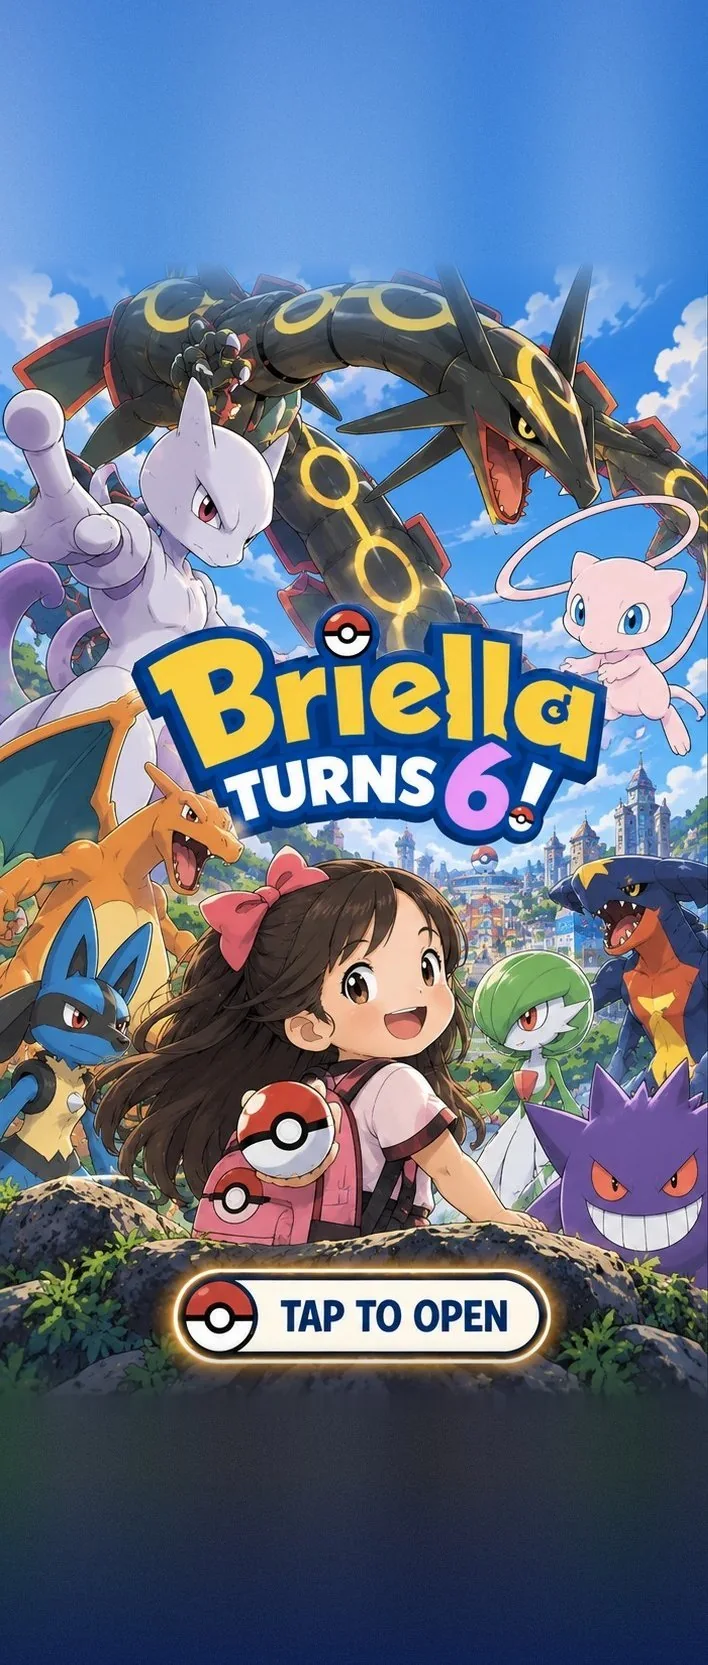
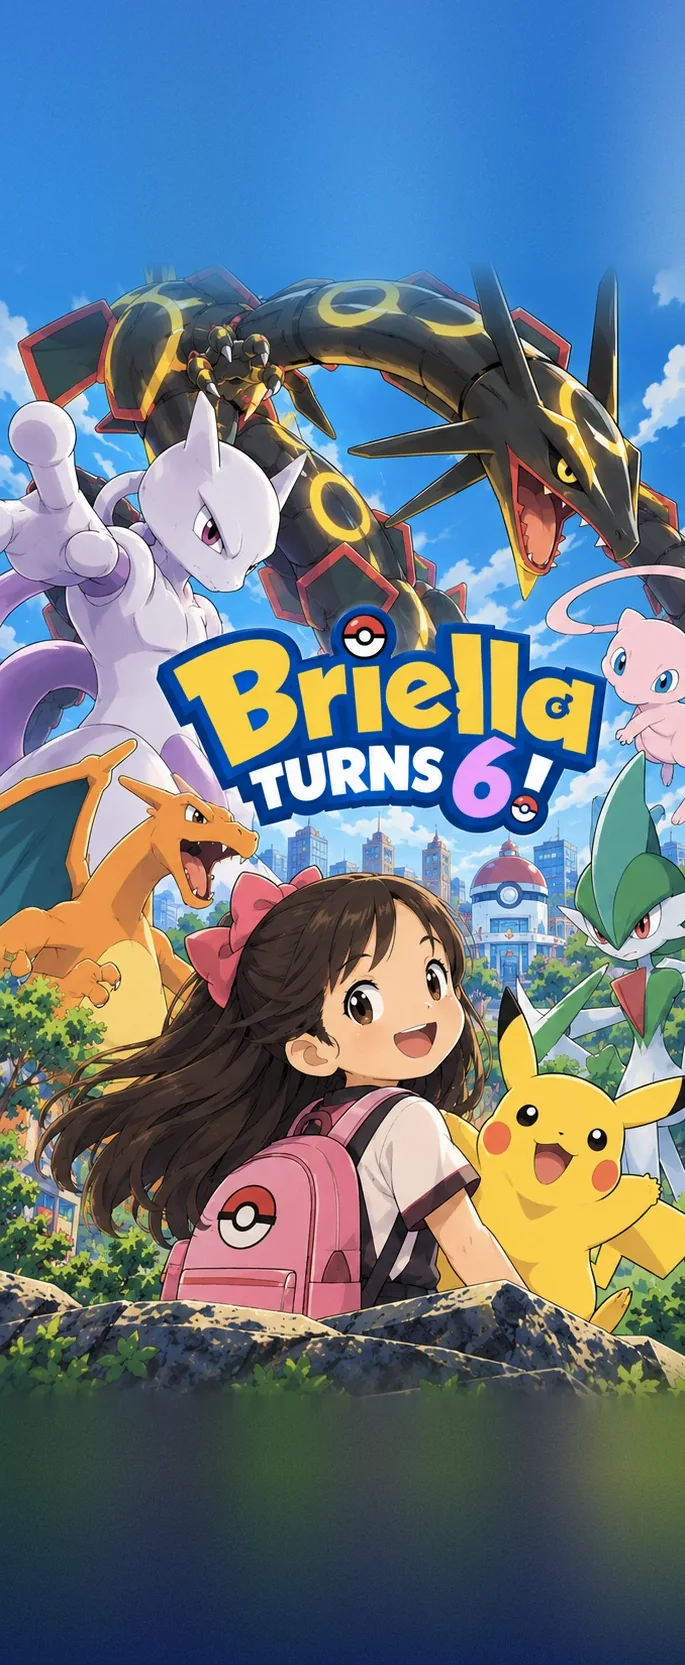
New static cover; remove Share from the details page
Cover art swapped (no baked-in button), with a glowing 'Tap to open' pill
drawn over the rocks and the burst coming from its Poké Ball. Cover
continuation rebuilt for the new art. Share button removed; Directions and
Calendar now sit two-up.

Claude-Session: https://claude.ai/code/session_01QD2k2CZHnLByvT3XjtNd4x

diff --git a/public/styles.css b/public/styles.css
@@ -123,27 +123,45 @@ body.is-locked { overflow: hidden; }
   max-height: 100vh;
   max-height: 100dvh;
   box-shadow: 0 0 60px rgba(0, 0, 0, .6);
-  transform-origin: 30.8% 91.9%;
+  transform-origin: 40% 91%;
   transition: transform .85s cubic-bezier(.5, 0, .3, 1), filter .4s ease;
 }
 @media (min-width: 600px) { .cover img { border-radius: 18px; } }
 
-/* Glowing ring over the artwork's "TAP TO OPEN" button. */
-.cover-pulse {
-  position: absolute;
-  left: 24.3%; top: 87.8%; width: 55.5%; height: 8.5%;
+/* "TAP TO OPEN" button drawn over the rocks at the bottom of the cover. */
+.tap-pill {
+  position: absolute; left: 50%; bottom: 2.4%;
+  translate: -50% 0;
+  display: inline-flex; align-items: center; gap: .55em;
+  padding: .42em 1.1em .42em .42em;
   border-radius: 999px;
-  animation: ring 1.8s ease-out infinite;
-  transition: background-color .15s ease, box-shadow .15s ease;
+  background: linear-gradient(180deg, #fffdf6, #f6efdc);
+  border: .16em solid var(--navy-900);
+  color: var(--navy-800);
+  font-family: var(--ui); font-weight: 900;
+  font-size: clamp(17px, 5.4vw, 26px);
+  letter-spacing: .03em; line-height: 1;
+  text-transform: uppercase; white-space: nowrap;
+  box-shadow: 0 0 0 .14em #ffd34d, 0 0 22px 6px rgba(255, 205, 60, .7), 0 8px 18px rgba(0, 0, 0, .45);
+  animation: glow 1.8s ease-in-out infinite;
+  transition: transform .15s ease, box-shadow .15s ease, opacity .3s ease;
 }
-@keyframes ring {
-  0% { box-shadow: 0 0 0 0 rgba(255, 214, 90, .8); }
-  75%, 100% { box-shadow: 0 0 0 16px rgba(255, 214, 90, 0); }
+@keyframes glow {
+  50% { box-shadow: 0 0 0 .14em #ffe27a, 0 0 34px 12px rgba(255, 215, 80, .9), 0 8px 18px rgba(0, 0, 0, .45); }
+}
+.tap-ball {
+  position: relative;
+  width: 1.75em; height: 1.75em; flex: none;
+  border-radius: 50%;
+  border: .12em solid var(--navy-900);
+  background:
+    radial-gradient(circle at 50% 50%, #fff 0 .2em, var(--navy-900) .2em .32em, transparent .32em),
+    linear-gradient(180deg, #ef2b33 0 45%, var(--navy-900) 45% 55%, #fff 55% 100%);
 }
 .cover-burst {
   position: absolute;
-  left: 30.8%; top: 91.9%;
-  width: 7%; aspect-ratio: 1;
+  left: 50%; top: 50%;
+  width: 100%; aspect-ratio: 1;
   translate: -50% -50%;
   border-radius: 50%;
   background: radial-gradient(circle, #fff 0%, #fff7c2 35%, rgba(255, 220, 90, 0) 70%);
@@ -154,7 +172,7 @@ body.is-locked { overflow: hidden; }
 /* Phones (screen narrower than the art): the cover fills the screen edge to
    edge and the artwork continues above/below via cover-ext (same art with
    painted extensions, centred so the two line up exactly). */
-@media (max-aspect-ratio: 708/1145) {
+@media (max-aspect-ratio: 685/1145) {
   .intro { height: 100vh; height: 100dvh; min-height: 0; }
   .cover-bg {
     position: absolute; inset: 0;
@@ -171,18 +189,19 @@ body.is-locked { overflow: hidden; }
 }
 
 /* Opening sequence: classes are added in order by app.js */
-.cover.is-pressed .cover-pulse {
+.cover:hover .tap-pill { transform: scale(1.04); }
+.cover.is-pressed .tap-pill {
   animation: none;
-  background: rgba(255, 255, 255, .28);
-  box-shadow: 0 0 0 4px rgba(255, 230, 140, .95), 0 0 30px 10px rgba(255, 220, 90, .8);
+  transform: scale(.94);
+  box-shadow: 0 0 0 .14em #fff1b0, 0 0 40px 16px rgba(255, 225, 110, 1), 0 4px 10px rgba(0, 0, 0, .4);
 }
 .cover.is-open img { transform: scale(1.18); filter: brightness(1.15); }
-.cover.is-open .cover-pulse { opacity: 0; }
+.cover.is-open .tap-pill { animation: none; background: #fffbe8; }
 .cover.is-open .cover-burst { animation: burst .8s cubic-bezier(.3, .7, .2, 1) forwards; }
 @keyframes burst {
   0% { opacity: 0; transform: scale(0); }
   20% { opacity: 1; }
-  100% { opacity: 1; transform: scale(40); }
+  100% { opacity: 1; transform: scale(60); }
 }
 
 /* ---------- Flash ---------- */
@@ -348,6 +367,7 @@ body.is-revealed .rays { opacity: 1; }
 }
 
 .btn-row { display: grid; grid-template-columns: repeat(3, 1fr); gap: 10px; }
+.panel .btn-row { grid-template-columns: repeat(2, 1fr); }
 
 .btn-tile {
   flex-direction: column; gap: 6px;
@@ -534,6 +554,6 @@ body.is-revealed .rays { opacity: 1; }
     animation-iteration-count: 1 !important;
     transition-duration: .01ms !important;
   }
-  .stars, .sky-ball, .rays, .cover-pulse, .scroll-cue { animation: none !important; }
+  .stars, .sky-ball, .rays, .tap-pill, .scroll-cue { animation: none !important; }
   .flash { display: none; }
 }

diff --git a/public/index.html b/public/index.html
@@ -43,10 +43,12 @@
       <span class="cover-frame">
         <picture>
           <source srcset="/assets/cover.webp" type="image/webp" />
-          <img src="/assets/cover.jpg" width="708" height="1145" alt="" fetchpriority="high" />
+          <img src="/assets/cover.jpg" width="685" height="1145" alt="" fetchpriority="high" />
         </picture>
-        <span class="cover-pulse" aria-hidden="true"></span>
-        <span class="cover-burst" aria-hidden="true"></span>
+        <span class="tap-pill" aria-hidden="true">
+          <span class="tap-ball"><span class="cover-burst"></span></span>
+          Tap to open
+        </span>
       </span>
     </button>
   </main>
@@ -82,10 +84,6 @@
         <button id="btn-cal" class="btn btn-tile" type="button">
           <svg aria-hidden="true" viewBox="0 0 24 24" class="ic-blue"><path d="M7 2a1 1 0 0 1 1 1v1h8V3a1 1 0 1 1 2 0v1h1a3 3 0 0 1 3 3v12a3 3 0 0 1-3 3H5a3 3 0 0 1-3-3V7a3 3 0 0 1 3-3h1V3a1 1 0 0 1 1-1Zm13 8H4v9a1 1 0 0 0 1 1h14a1 1 0 0 0 1-1v-9ZM8 13h3v3H8v-3Z"/></svg>
           Calendar
-        </button>
-        <button id="btn-share" class="btn btn-tile" type="button">
-          <svg aria-hidden="true" viewBox="0 0 24 24" class="ic-yellow"><path d="M18 2a3.5 3.5 0 1 1-2.6 5.8l-6.5 3.3a3.5 3.5 0 0 1 0 1.8l6.5 3.3a3.5 3.5 0 1 1-.9 1.8l-6.5-3.3a3.5 3.5 0 1 1 0-5.4l6.5-3.3A3.5 3.5 0 0 1 18 2Z"/></svg>
-          Share
         </button>
       </div>
 

diff --git a/public/app.js b/public/app.js
@@ -227,26 +227,6 @@
   }
   $("#btn-cal").addEventListener("click", () => openSheet($("#dlg-cal")));
 
-  // ---------- Share ----------
-  $("#btn-share").addEventListener("click", async () => {
-    const url = `${location.origin}/`;
-    const data = {
-      title: "Briella Turns 6!",
-      text: `You're invited to Briella's Pokémon birthday party! ${CONFIG.dateLabel} at ${CONFIG.venue}. Tap the Poké Ball to open:`,
-      url,
-    };
-    if (navigator.share) {
-      try {
-        await navigator.share(data);
-        return;
-      } catch (err) {
-        if (err && err.name === "AbortError") return; // guest cancelled
-      }
-    }
-    const ok = await copyText(`${data.text} ${url}`);
-    toast(ok ? "Invitation link copied — paste it anywhere!" : url);
-  });
-
   // ---------- RSVP ----------
   const form = $("#rsvp-form");
   const nameInput = $("#rsvp-name");

diff --git a/README.md b/README.md
@@ -1,6 +1,6 @@
 # Briella Turns 6 — Interactive Invitation
 
-Mobile-first Pokémon birthday invitation. Guests see the cover artwork first; tapping it ("TAP TO OPEN") bursts light from the cover's Poké Ball, flashes, and reveals the details page with RSVP, Directions, Calendar and Share buttons.
+Mobile-first Pokémon birthday invitation. Guests see the cover artwork first; tapping it (glowing "Tap to open" button) bursts light from the button's Poké Ball, flashes, and reveals the details page with RSVP, Directions and Calendar buttons.
 
 - **Event:** Briella's 6th birthday · Wed, Oct 28, 2026 · 2:00–5:00 PM (Manila) · Timezone, Greenhills
 - **Stack:** plain HTML/CSS/JS + a zero-dependency Node server (`server.js`). No build step, no `npm install` needed.
@@ -75,7 +75,6 @@ One-time Railway setup:
 | **RSVP** | Name, yes/no, kid and adult counts, optional note. **Send RSVP** saves it to your guest list, then offers optional **Chat apps** (share sheet: WhatsApp, Messenger, Viber…) and **Text message** (SMS to the host). | If saving fails, the guest is asked to send it by chat or text instead |
 | **Directions** | Google Maps, Waze, and Apple Maps (iPhone only) | n/a |
 | **Calendar** | iPhone: Apple Calendar first (`/briella-birthday.ics`, with reminders 1 day and 2 hours before). Android: Google Calendar first. | The other option sits right below |
-| **Share** | Native share sheet with the link | Copies the link and shows a confirmation |
 | **Save invitation image** | Downloads a full-resolution JPG of the artwork | n/a |
 
 Link previews in Messenger, Viber and iMessage show `assets/og.jpg`. The server makes those URLs absolute for whatever domain you deploy to.
@@ -92,7 +91,7 @@ briellainvitation/
     ├── styles.css
     ├── app.js                ← CONFIG lives here
     └── assets/
-        ├── cover.webp/.jpg           page 1: the "TAP TO OPEN" cover (first screen)
+        ├── cover.webp/.jpg           page 1: static cover (first screen; "Tap to open" button is drawn by the page)
         ├── invite-details.webp/.jpg  page 2: date, time, venue (shown after the tap)
         ├── cover-ext.webp/.jpg       cover with painted sky/ground continuation (full-screen fill)
         ├── details-tail.webp/.jpg    street continuation below page 2 (behind the buttons)
